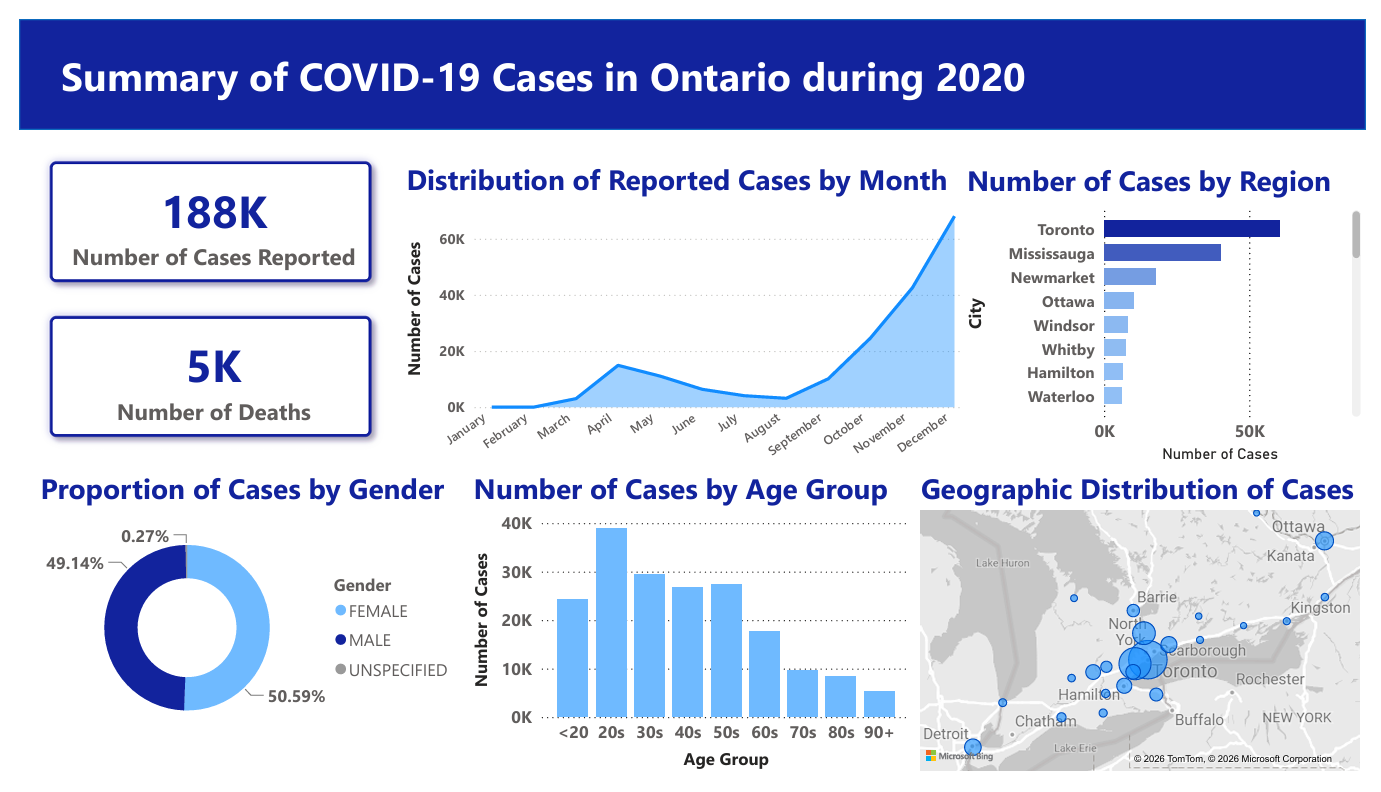
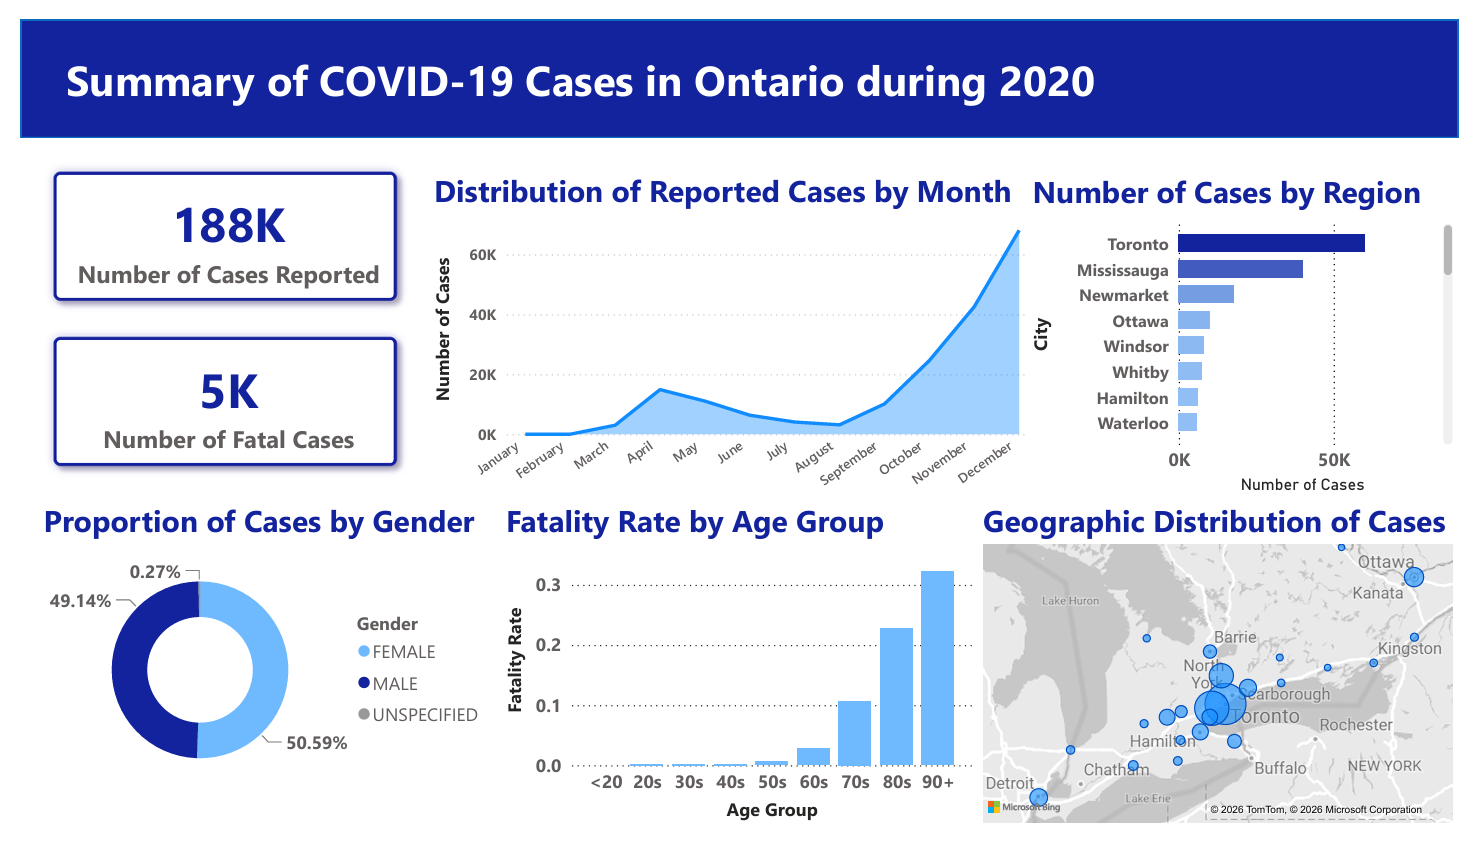
updated readme

diff --git a/README.md b/README.md
@@ -2,7 +2,7 @@
 
 ## Overview
 
-This project builds an end-to-end data analytics pipeline using confirmed COVID-19 case data reported in Ontario during 2020. The pipeline extracts data from a CSV file, performs basic cleaning using Python, loads the data into PostgreSQL, transforms the data using SQL, and visualize key insights in Power BI.
+This project builds an end-to-end data analytics pipeline using confirmed COVID-19 case data reported in Ontario during 2020. The pipeline extracts data from a CSV file, performs basic cleaning using Python, loads the data into PostgreSQL, and visualize key insights in Power BI.
 
 ## Data Source
 
@@ -12,14 +12,35 @@ Source: https://data.ontario.ca/dataset/confirmed-positive-cases-of-covid-19-in-
 
 ## Tech Stack
 
-- ETL: Python (pandas, SQLAlchemy, psycopg2)
-- Databases: SQL, PostgreSQL
-- Visualization: Power BI
+- <b>ETL:</b> Python (pandas, SQLAlchemy, psycopg2)
+- <b>Databases:</b> SQL, PostgreSQL
+- <b>Visualization:</b> Power BI
+
+## ETL Process
+The ETL pipeline consists of 3 stages
+### 1. Extract
+- Loaded the raw dataset from a CSV file using pandas.
+- Inpsected the dataset for missing values and duplicate records.
+
+### 2. Transform
+Performed neccessary transformations, including:
+- Standardized column names
+- Removed duplicate records
+- Handled missing values
+- Separated the dataset into normalized tables: `covid_cases` and `reporting_phu`
+
+### 3. Load
+The cleaned data was loaded into PostgreSQL using SQLAlchemy.
+
+## Relational Database Design
+The database was normalized to reduce data redundancy by separating repeated Public Health Unit (PHU) information into its own table.
+
+![Database Schema](images/database-schema.png)
 
 ## Findings
-The final dashboard includes:
-- Total confirmed COVID-19 cases
-- Cases by age group
+The final Power BI dashboard includes:
+- Total confirmed COVID-19 cases, including fatal cases
+- Fatality rate by age group
 - Cases by gender
 - Case trends over time
 - Distribution of cases by region
@@ -29,7 +50,7 @@ The final dashboard includes:
 
 Some key insights from the dashboard:
 - Toronto reported the highest mumber of confirmed COVID-19 cases, followed by Missisauga
-- Individuals in their 20s accounted for the largest number of reported cases
+- Fatality rate increased with age, with the 90+ age group having the highest fatality rate
 - Reporeted COVID-19 cases increased significantly between September and December 2020
 - Male and female cases were distributed similarly, with no significant difference in the total number of reported cases.
 
